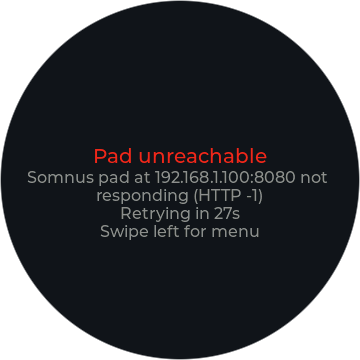
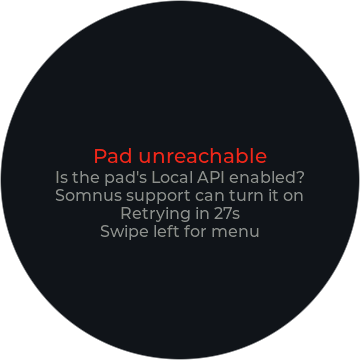
dial: plain-language Local API hint when the pad does not answer (1.0.4-beta.1 change)

Changed region(s): [[0.0611, 0.4583, 0.9167, 0.5806]]

diff --git a/firmware/dial-idf/components/dial_somnus/dial_somnus.c b/firmware/dial-idf/components/dial_somnus/dial_somnus.c
@@ -114,7 +114,9 @@ static bool do_request(const char *path, esp_http_client_method_t method,
     esp_http_client_cleanup(client);
 
     if (err != ESP_OK) {
-        set_error("http error: %s", esp_err_to_name(err));
+        ESP_LOGW(TAG, "http error: %s", esp_err_to_name(err));
+        // User-facing hint for the Pad unreachable screen; the raw esp_err name goes to the serial log only.
+        set_error("%s", "Is the pad's Local API enabled?\nSomnus support can turn it on");
         free(acc.buf);
         return false;
     }

diff --git a/simulator/main.c b/simulator/main.c
@@ -851,7 +851,7 @@ static void scenario_pad_degraded_real(void)
     dial_state_set_pad_url("http://unreachable.invalid:8080");
     app_state_t *st = sim_state_ptr();
     snprintf(st->phase_err, sizeof(st->phase_err),
-             "Somnus pad at 192.168.1.100:8080 not responding (HTTP -1)");
+             "Is the pad's Local API enabled?\nSomnus support can turn it on");
     st->retry_in_s = 27;
     st->generation++;
     ui_router_go(SCR_CONNECTING, NULL, LV_SCR_LOAD_ANIM_NONE);
